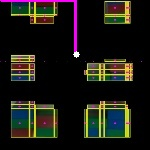
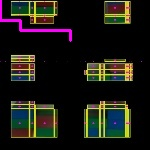
터틀봇 경로 업데이트

Changed region(s): [[0.0, 0.0, 0.5333, 0.4]]

diff --git a/Find_path.py b/Find_path.py
@@ -16,7 +16,6 @@ class Find_path:
         self.map, self.map_str = self.makeMap.draw_result_map()
 
 
-
         # check 맵 초기화
         self.check_map = [[0 for i in range(len(self.map[0]))] for row in range(len(self.map[0]))]
         self.arrow = {(0, 1): "R",  (1, 0): "G", (0, -1): "L", (-1, 0): "B"}  # (y, x)
@@ -65,18 +64,14 @@ class Find_path:
 
     # 최적의 경로를 찾아서 mqtt로 보내고 경로가 담긴 이미지를 반환한다.
     def real_path(self):
-
-        # 1.... 구해진 맵위에 turtlebot이 움직일 경로 그려주기
         img = cv2.imread("./container/map.jpg")
-        for p in range(len(self.path)):
-            x, y = self.path[p][0], self.path[p][1]
-            cv2.line(img, (x, y), (x, y), (255, 0, 255), 2)
-        cv2.line(img, (self.target_x, self.target_y), (self.target_x, self.target_y), (255, 255, 255), 5)
 
         # 2.... TurtleBot 에게 경로 정보 넘기기
         arrows = self.arrows.split('/')
         result = [[arrow[0], len(arrow)] for arrow in arrows]
         checked = {'R': -18, "G": -18, "L": -18, "B": -18}
+        checked = {'R': 0, "G": 0, "L": 0, "B": 0}
+
         pos = ''
         for r in result:
             if checked[r[0]] < 0:
@@ -85,9 +80,25 @@ class Find_path:
                 pos += str(checked[r[0]])  # 방향
             else:
                 pos += r[0]
-                pos += str(r[1])
+                pos += str(r[1]*10)
             pos += '/'
         print(pos)
+
+        # 1.... 구해진 맵위에 turtlebot 이 움직일 경로 그려주기
+        pos = pos.split('/')
+        x, y = 0, 0
+        for i in pos[:-1]:
+            post_x, post_y = x, y
+            if i[0] == "G":
+                y += int(i[1:])
+            elif i[0] == "B":
+                y -= int(i[1:])
+            elif i[0] == "R":
+                x += int(i[1:])
+            elif i[0] == "L":
+                x -= int(i[1:])
+
+            cv2.line(img, (post_x, post_y), (x, y), (255, 0, 255), 2)
 
 
         # .....3 mongoDB에 경로 저장하기
@@ -96,14 +107,14 @@ class Find_path:
         self.mongo.storeImg_map(img, 'map_result.jpg')  # 넘길 이미지와 이름
         print("map_result image save!!")
 
-        # .... TurtleBot 에게 경로 정보 넘기기
+        # .... TurtleBot 에게 MQTT 로 경로 정보 넘기기
         import paho.mqtt.client as mqtt
         mqtt = mqtt.Client("loadFinder")  # MQTT client 생성, 이름 ""
         mqtt.connect("localhost", 1883)  # 로컬호스트에 있는 MQTT서버에 접속
         mqtt.publish("pathList", json.dumps({"data": pos}))  # topic 과 넘겨줄 값
 
 if __name__ =='__main__':
-    img = cv2.imread('./container/66.jpg')
+    img = cv2.imread('./container/origin.jpg')
     realize = Find_path(img)
     realize.bfs()
     img = realize.real_path()

diff --git a/MakeMap.py b/MakeMap.py
@@ -7,8 +7,8 @@ class Realize:
 
 
         self.img = img
-        # self.img = cv2.imread('./container/origin.jpg')
         self.img = cv2.resize(self.img, dsize=(400, 400), interpolation=cv2.INTER_AREA)
+        #self.img = cv2.imread('./container/origin.jpg')
 
         # 이미지의 기본 속성 (행, 열, channel 정보)
         self.row = self.img.shape[0]  # 행 y
@@ -110,8 +110,8 @@ class Realize:
         cv2.imshow("img_result", self.img_result2)
         cv2.waitKey(0)
 
-        print("target:", y, x)
-        return x, y
+        print("target:", round(y/10), round(x/10))
+        return round(x/10), round(y/10)
 
 
 
@@ -253,6 +253,14 @@ class Realize:
         print('한픽셀에 해당하는 실제 거리(cm):', one_pixel)
         self.img_result = cv2.resize(self.img_result, (150, 150))
 
+        # 자른 이미지들 저장 경로 및 저장
+        cv2.imwrite('./container/map.jpg', self.img_result)
+        cv2.imshow("result_2", self.img_result)
+        cv2.waitKey(0)
+
+        # 맵의 오차범위를 줄이기 위해 터틀봇이 이동할 수 있는 칸의 크기로 0.1배수 줄여준다
+        self.img_result = cv2.resize(self.img_result, None, fx=0.1, fy=0.1, interpolation=cv2.INTER_AREA)
+
         ############## 맵 그리기 -보드판(도로) = 0 / 컨테이너 != 0 ################
         line_info = []
         line_info_str = []
@@ -269,10 +277,7 @@ class Realize:
             drawing = list(map(int, drawing))
             line_info.append(drawing)
 
-        # 자른 이미지들 저장 경로 및 저장
-        cv2.imwrite('./container/map.jpg', self.img_result)
-        cv2.imshow("result_2", self.img_result)
-        cv2.waitKey(0)
+
         return line_info, line_info_str
 
 if __name__ =='__main__':
